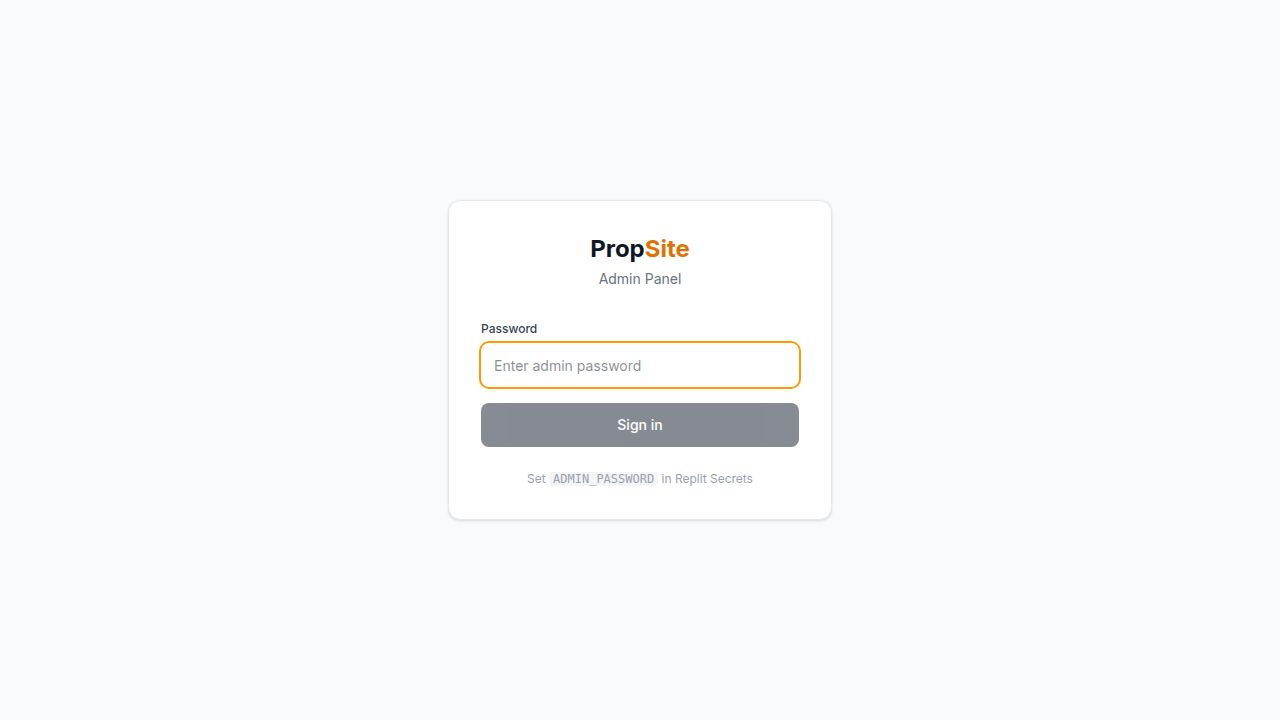
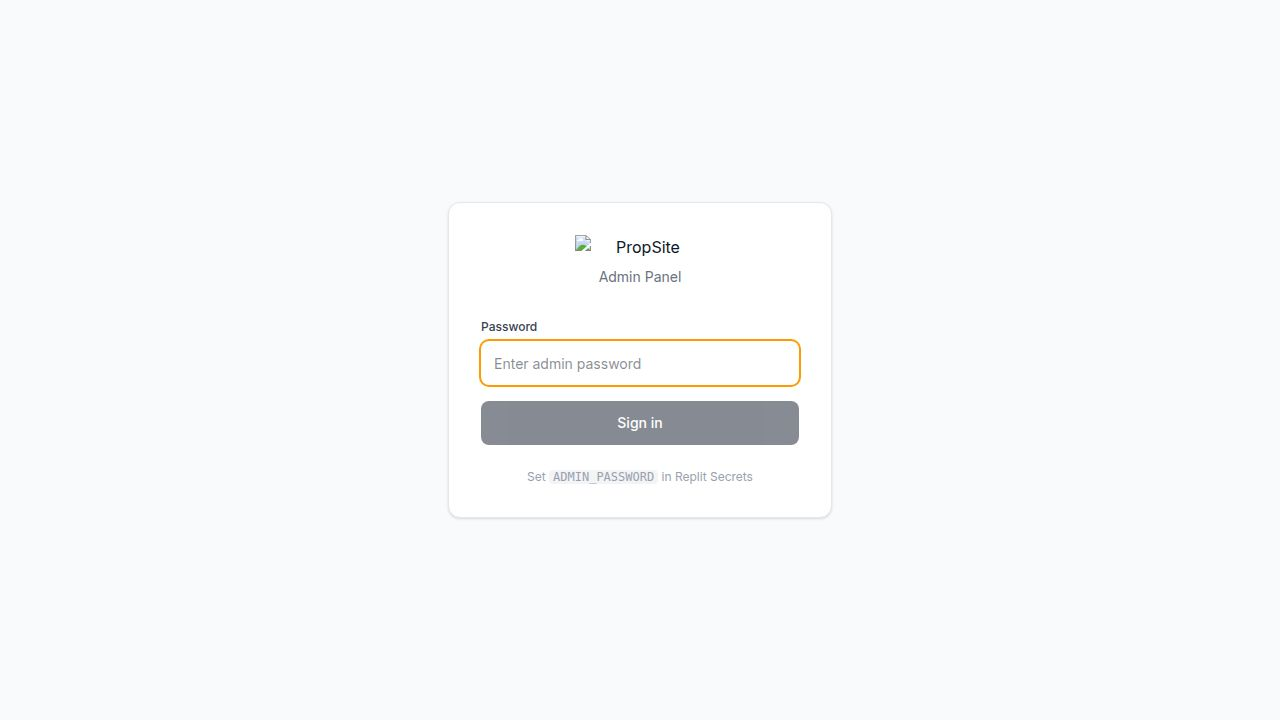
Add a way to seed tracking tokens and prevent accidental email sending
Adds `seedClickEvents.ts` to populate click event tokens, copies `clickEventsSeed.json` to the dist folder during build, and gates email/SMS outbox workers and outreach crons to production environments only by checking `REPL_DEPLOYMENT`.

Replit-Commit-Author: Agent
Replit-Commit-Session-Id: 931239db-5a65-4e56-9528-8faff638beed
Replit-Commit-Checkpoint-Type: full_checkpoint
Replit-Commit-Event-Id: e10b82d4-b5df-4181-9de5-8140f6c8b044
Replit-Commit-Screenshot-Url: https://storage.googleapis.com/screenshot-production-us-central1/f1d77c88-f5d6-4865-a82a-77bde7eeb05a/931239db-5a65-4e56-9528-8faff638beed/F3lPNN3
Replit-Helium-Checkpoint-Created: true

Changed region(s): [[0.375, 0.4278, 0.625, 0.6111], [0.4375, 0.3056, 0.5625, 0.3972], [0.4062, 0.6417, 0.5938, 0.6722]]

diff --git a/artifacts/api-server/src/lib/seeds/seedClickEvents.ts b/artifacts/api-server/src/lib/seeds/seedClickEvents.ts
@@ -1,0 +1,67 @@
+import { readFileSync } from "fs";
+import { fileURLToPath } from "url";
+import { dirname, join } from "path";
+import { db, emailClickEventsTable } from "@workspace/db";
+import { logger } from "../logger.js";
+
+const log = logger.child({ component: "seed-click-events" });
+
+interface SeedRow {
+  token: string;
+  agentEmail: string;
+  listingId: string;
+  linkType: string;
+  destinationUrl: string;
+  createdAt: string;
+}
+
+/**
+ * One-time seed: imports click event tokens that were generated by the dev
+ * environment (which drained the email outbox and sent cold outreach emails
+ * before the outbox drain was restricted to production).
+ *
+ * Runs idempotently via ON CONFLICT DO NOTHING — safe to call on every boot.
+ */
+export async function seedClickEvents(): Promise<void> {
+  const __filename = fileURLToPath(import.meta.url);
+  const __dirname = dirname(__filename);
+  const seedPath = join(__dirname, "clickEventsSeed.json");
+
+  let rows: SeedRow[];
+  try {
+    const raw = readFileSync(seedPath, "utf8");
+    rows = JSON.parse(raw) as SeedRow[];
+  } catch {
+    log.warn("No click events seed file found — skipping seed");
+    return;
+  }
+
+  if (!rows.length) return;
+
+  log.info({ count: rows.length }, "Seeding missing click events into DB");
+
+  const BATCH = 500;
+  let inserted = 0;
+
+  for (let i = 0; i < rows.length; i += BATCH) {
+    const batch = rows.slice(i, i + BATCH);
+    const values = batch.map((r) => ({
+      token: r.token,
+      agentEmail: r.agentEmail,
+      listingId: r.listingId,
+      linkType: r.linkType as "preview" | "activate",
+      destinationUrl: r.destinationUrl,
+      clickedAt: null,
+      createdAt: new Date(r.createdAt),
+    }));
+
+    await db
+      .insert(emailClickEventsTable)
+      .values(values)
+      .onConflictDoNothing();
+
+    inserted += batch.length;
+  }
+
+  log.info({ inserted }, "Click events seed complete");
+}

diff --git a/artifacts/api-server/src/index.ts b/artifacts/api-server/src/index.ts
@@ -9,6 +9,7 @@ import { startWeeklyReportCron } from "./lib/analytics/cron";
 import { startColdOutreachFollowupCron } from "./lib/outreach/followupCron";
 import { startPurgeUnclaimedCron } from "./lib/mls/purgeCron";
 import { startDailyOutreachReportCron } from "./lib/outreach/dailyReportCron";
+import { seedClickEvents } from "./lib/seeds/seedClickEvents.js";
 
 const rawPort = process.env["PORT"];
 
@@ -24,20 +25,44 @@ if (Number.isNaN(port) || port <= 0) {
   throw new Error(`Invalid PORT value: "${rawPort}"`);
 }
 
-app.listen(port, (err) => {
+/**
+ * Outbox drain and outreach crons must only run in the deployed production
+ * environment.  Running them in dev causes real emails to be sent with
+ * tracking tokens stored in the dev database — those tokens are unknown to
+ * the production server, so every recipient sees a broken tracking link.
+ *
+ * Replit sets REPL_DEPLOYMENT to a non-empty string in all autoscale
+ * deployments; it is absent (undefined) in the development workspace.
+ */
+const isProduction = Boolean(process.env["REPL_DEPLOYMENT"]);
+
+app.listen(port, async (err) => {
   if (err) {
     logger.error({ err }, "Error listening on port");
     process.exit(1);
   }
 
-  logger.info({ port }, "Server listening");
+  logger.info({ port, isProduction }, "Server listening");
+
+  // Seed missing click events on every boot so that tracking links from
+  // previously dev-drained emails resolve correctly in production.
+  await seedClickEvents();
+
   initBillingLifecycleBridge();
   initColdOutreachBridge();
-  startEmailOutboxWorker();
-  startSmsOutboxWorker();
   startWeeklyReportCron();
-  startColdOutreachFollowupCron();
   startPurgeUnclaimedCron();
-  startDailyOutreachReportCron();
   startMlsIngestion();
+
+  if (isProduction) {
+    startEmailOutboxWorker();
+    startSmsOutboxWorker();
+    startColdOutreachFollowupCron();
+    startDailyOutreachReportCron();
+    logger.info("Outbox drain and outreach crons started (production)");
+  } else {
+    logger.warn(
+      "Outbox drain disabled in dev — REPL_DEPLOYMENT not set",
+    );
+  }
 });